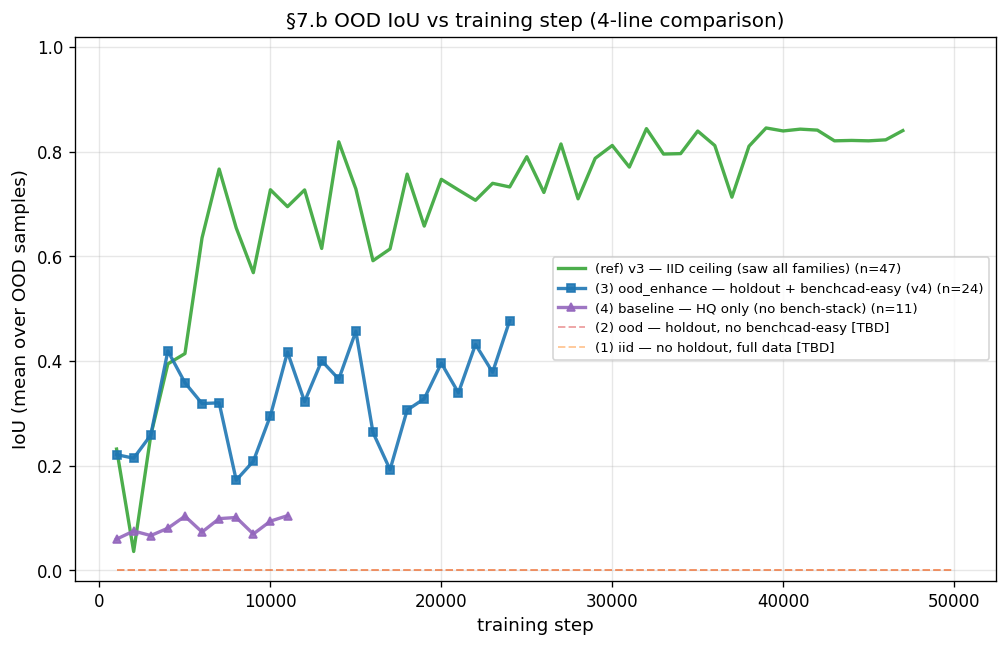
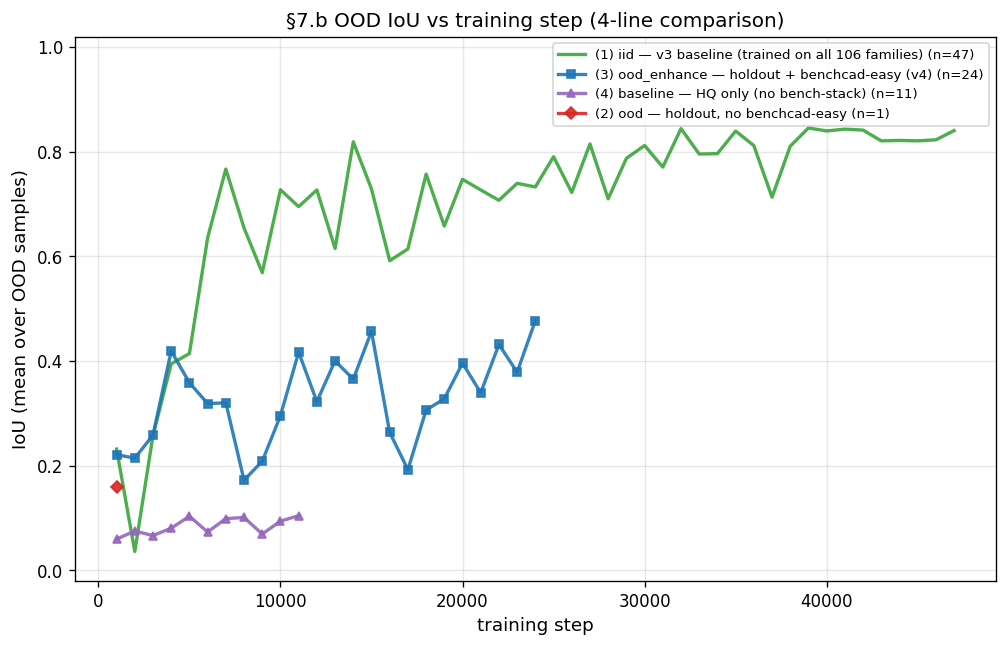
chore: drop iid chain run — v3 plays the iid role
v3 was trained on all 106 BenchCAD families, so on the held-out families it
already serves as the iid upper bound (those families are in-distribution
for v3, OOD only for v4-* recipes). Running a recipe-matched iid would
cost 24h GPU for a line that v3 already gives us; the recipe asymmetry
(v3 36/64 vs v4 60/40 HQ/bench) is documented as a known caveat.

* plot_main_appendix.py: relabel v3 entry as "(1) iid — v3 baseline";
  drop the "iid" placeholder slot from RUNS[]
* launch_chain_runs.sh: drop the launch_run iid step; chain ends after ood
* configs/sft/README.md: rewrite role table — 4 roles, 3 active runs;
  iid.yaml kept as a documented option for matched-recipe iid

diff --git a/scripts/analysis/plot_main_appendix.py b/scripts/analysis/plot_main_appendix.py
@@ -52,8 +52,11 @@ from common.essential_ops import ESSENTIAL_BY_FAMILY as ESS_SPEC
 # ------------------------------------------------------------------
 RUNS = [
     {
-        'key':   'v3',
-        'label': '(ref) v3 — IID ceiling (saw all families)',
+        # v3 trained on all 106 BenchCAD families, so on the held-out families
+        # it IS the IID line (those families are in-distribution for v3).
+        # No separate matched-recipe iid run is needed — saves a 24h chain step.
+        'key':   'iid_v3',
+        'label': '(1) iid — v3 baseline (trained on all 106 families)',
         'dir':   '/ephemeral/checkpoints/sft-s50k-lr2e-4-b8a4-img-0428-1320/predictions',
         'plot':  dict(color='C2', linewidth=2.0, marker='', linestyle='-', alpha=0.85),
     },
@@ -72,14 +75,8 @@ RUNS = [
     {
         'key':   'ood',
         'label': '(2) ood — holdout, no benchcad-easy',
-        'dir':   '/ephemeral/checkpoints/sft-s50k-lr2e-4-b8a4-img-0501-1753/predictions',  # populated when chain reaches it
+        'dir':   '/ephemeral/checkpoints/sft-s50k-lr2e-4-b8a4-img-0501-1753/predictions',
         'plot':  dict(color='C3', linewidth=2.0, marker='D', markersize=5, linestyle='-', alpha=0.9),
-    },
-    {
-        'key':   'iid',
-        'label': '(1) iid — no holdout, full data',
-        'dir':   '/ephemeral/checkpoints/_NOT_LAUNCHED_yet_iid',
-        'plot':  dict(color='C1', linewidth=2.0, marker='o', markersize=5, linestyle='-', alpha=0.9),
     },
 ]
 

diff --git a/configs/sft/README.md b/configs/sft/README.md
@@ -1,14 +1,15 @@
 # SFT Configs — Paper §7 v4-holdout study
 
-Four runs cover the §7.a/§7.b 4-line plots. Naming scheme is **role-based**:
-the config name tells you what role the run plays in the §7 figure.
+Four roles in the §7 figures, but only **three** trained runs needed —
+v3 already plays the iid role (it saw all 106 families during training).
 
-| Config | Role | Holdout | benchcad-easy | bench-stack | Mix (HQ/bench) |
-|---|---|---|---|---|---|
-| `baseline.yaml`     | Floor — no BenchCAD data       | n/a (no bench) | ✗ | ✗ | 100/0  |
-| `ood.yaml`          | Held-out fams, plain bench     | 10 fams        | ✗ | ✓ | 60/40  |
-| `ood_enhance.yaml`  | Held-out fams + easy supplement| 10 fams        | ✓ (80k) | ✓ | 60/40  |
-| `iid.yaml`          | Full bench, no holdout (upper) | none           | ✓ | ✓ | 60/40  |
+| Config | Role in §7 figures | Holdout | benchcad-easy | bench-stack | Mix (HQ/bench) | Status |
+|---|---|---|---|---|---|---|
+| _legacy v3 ckpt_    | (1) **iid** ceiling — v3 saw all families | n/a | ✗ | ✓ | 36/64 | ✅ done (50k) |
+| `ood.yaml`          | (2) ood — held-out fams, plain bench       | 10 fams | ✗ | ✓ | 60/40 | 🟡 chain run 2 |
+| `ood_enhance.yaml`  | (3) ood_enhance — holdout + easy supplement| 10 fams | ✓ (80k) | ✓ | 60/40 | ✅ stopped @ 24k |
+| `baseline.yaml`     | (4) baseline — HQ only (floor)             | n/a (no bench) | ✗ | ✗ | 100/0 | ✅ stopped @ 11k |
+| ~~`iid.yaml`~~      | (skipped — v3 covers this role)            | none | ✓ | ✓ | 60/40 | ⛔ not run |
 
 `holdout_families.yaml` is the canonical list of held-out families
 (loaded by `common/holdout.py` for offline scripts and by `train/sft/online_eval.py`
@@ -19,16 +20,18 @@ with this file.
 
 | Config | Run name (wandb / ckpt dir) | Ckpt path | HF repo | Status |
 |---|---|---|---|---|
-| `ood_enhance.yaml`  | sft-s50k-lr2e-4-b8a4-img-0430-0828 | `/ephemeral/checkpoints/sft-s50k-lr2e-4-b8a4-img-0430-0828/` | `Hula0401/cadrille-qwen3vl-2b-v4-holdout-50k` | 🟡 in progress (will stop at next save) |
-| `baseline.yaml`     | (TBD)                              | (TBD)                                                       | `Hula0401/cadrille-qwen3vl-2b-baseline-50k`        | ❌ pending — chain run #1 |
-| `ood.yaml`          | (TBD)                              | (TBD)                                                       | `Hula0401/cadrille-qwen3vl-2b-ood-50k`             | ❌ pending — chain run #2 |
-| `iid.yaml`          | (TBD)                              | (TBD)                                                       | `Hula0401/cadrille-qwen3vl-2b-iid-50k`             | ❌ pending — chain run #3 |
+| _legacy v3_         | sft-s50k-lr2e-4-b8a4-img-0428-1320 | `/ephemeral/checkpoints/sft-s50k-lr2e-4-b8a4-img-0428-1320/` | (local only, 50k done) | ✅ iid line in §7 figs |
+| `ood_enhance.yaml`  | sft-s50k-lr2e-4-b8a4-img-0430-0828 | `/ephemeral/checkpoints/sft-s50k-lr2e-4-b8a4-img-0430-0828/` | `Hula0401/cadrille-qwen3vl-2b-v4-holdout-50k` | ✅ stopped @ 24k |
+| `baseline.yaml`     | sft-s50k-lr2e-4-b8a4-img-0501-0629 | `/ephemeral/checkpoints/sft-s50k-lr2e-4-b8a4-img-0501-0629/` | `Hula0401/cadrille-qwen3vl-2b-baseline-50k`   | ✅ stopped @ 11k (OOD ess_pass=0 plateau established) |
+| `ood.yaml`          | sft-s50k-lr2e-4-b8a4-img-0501-1753 | `/ephemeral/checkpoints/sft-s50k-lr2e-4-b8a4-img-0501-1753/` | `Hula0401/cadrille-qwen3vl-2b-ood-50k`        | 🟡 in progress |
+| ~~`iid.yaml`~~      | —                                  | —                                                            | —                                              | ⛔ not run (v3 plays this role) |
 
-Legacy v3 (50k done, no HF upload, ckpt at
-`/ephemeral/checkpoints/sft-s50k-lr2e-4-b8a4-img-0428-1320/`) is kept on disk as
-the IID upper-bound for offline cad_bench_722 eval. The v3 yaml itself was
-removed from `configs/sft/`; reference it through the saved
-`run_config.yaml` inside that ckpt dir if you need to re-launch.
+`iid.yaml` is kept on disk as a documented option but the §7 chain skips it:
+v3 trained on all 106 BenchCAD families, so on the held-out families it IS
+the iid line (those families are in-distribution for v3). Re-launch via
+`launch_run configs/sft/iid.yaml iid` in `scripts/launch_chain_runs.sh`
+only if a recipe-matched iid is needed (controls v3's 36/64 mix vs v4's
+60/40 mix).
 
 ## Holdout family list
 
